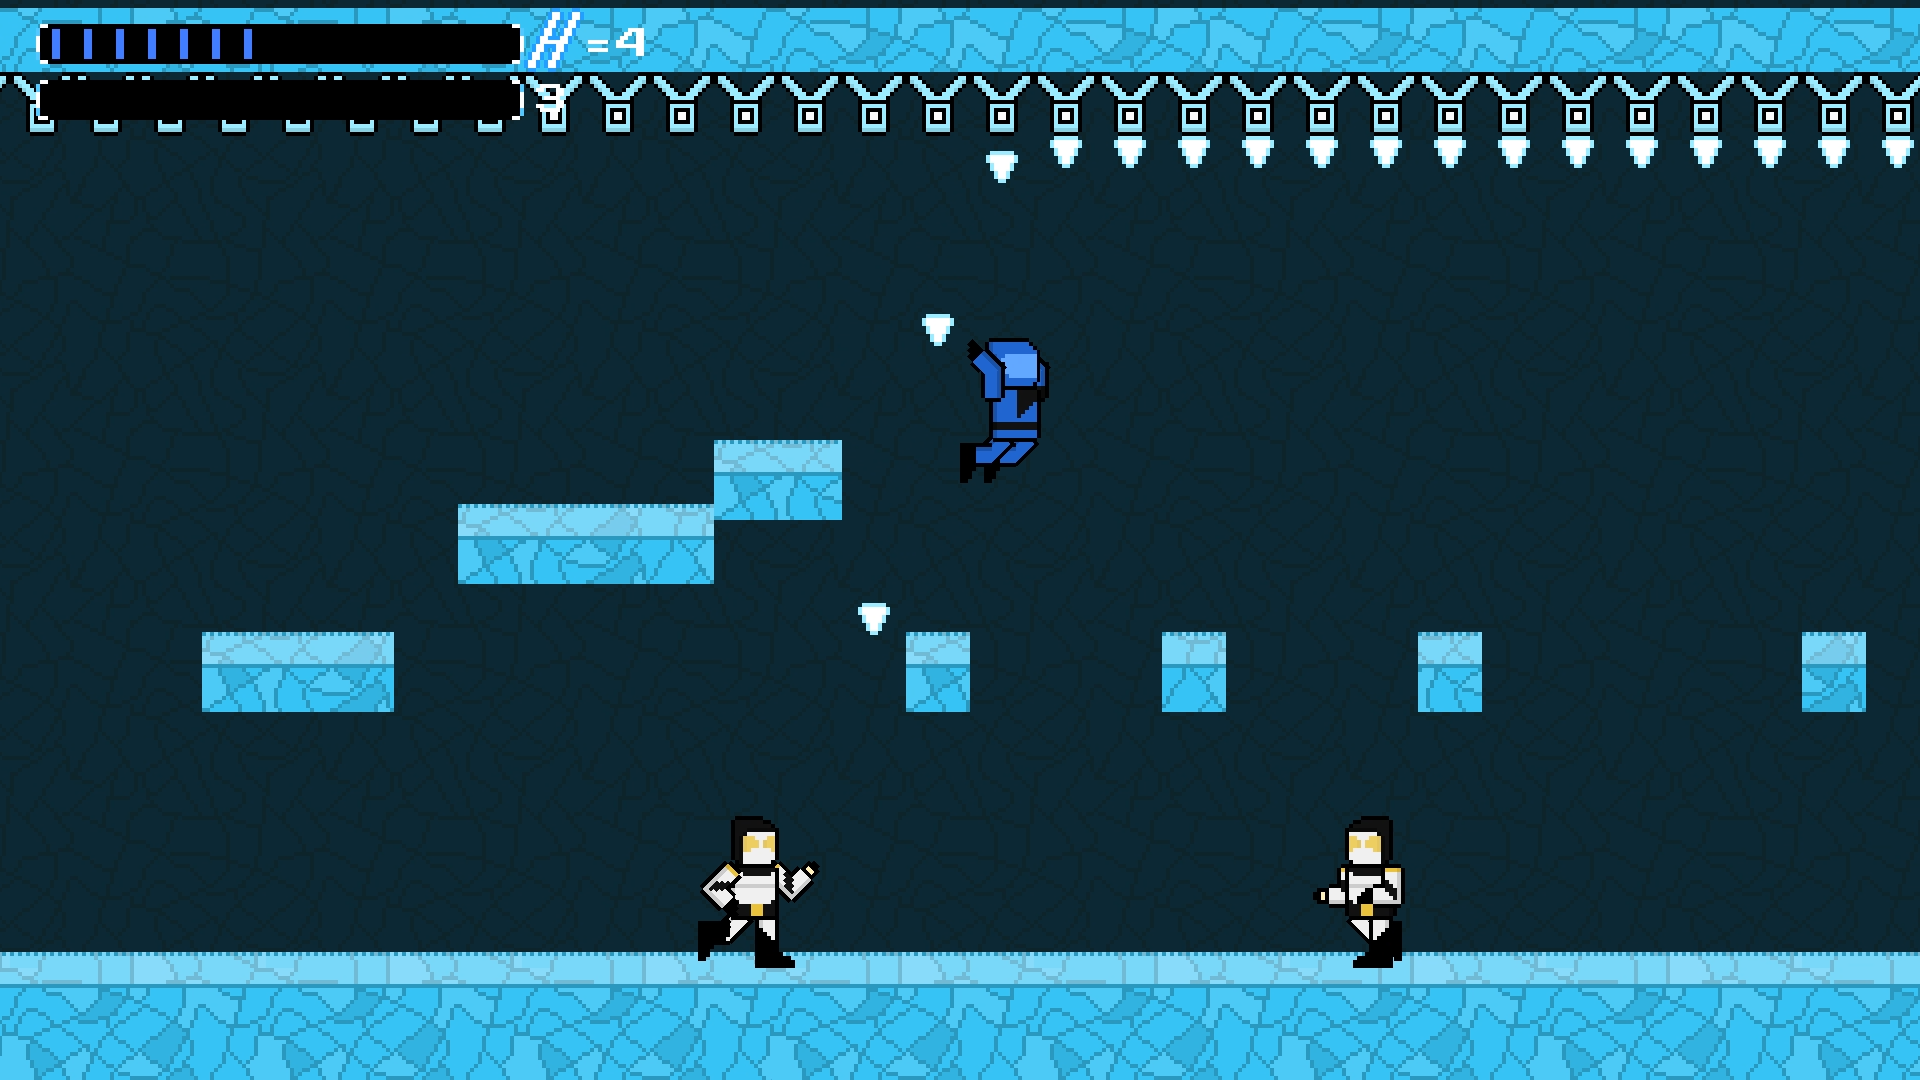
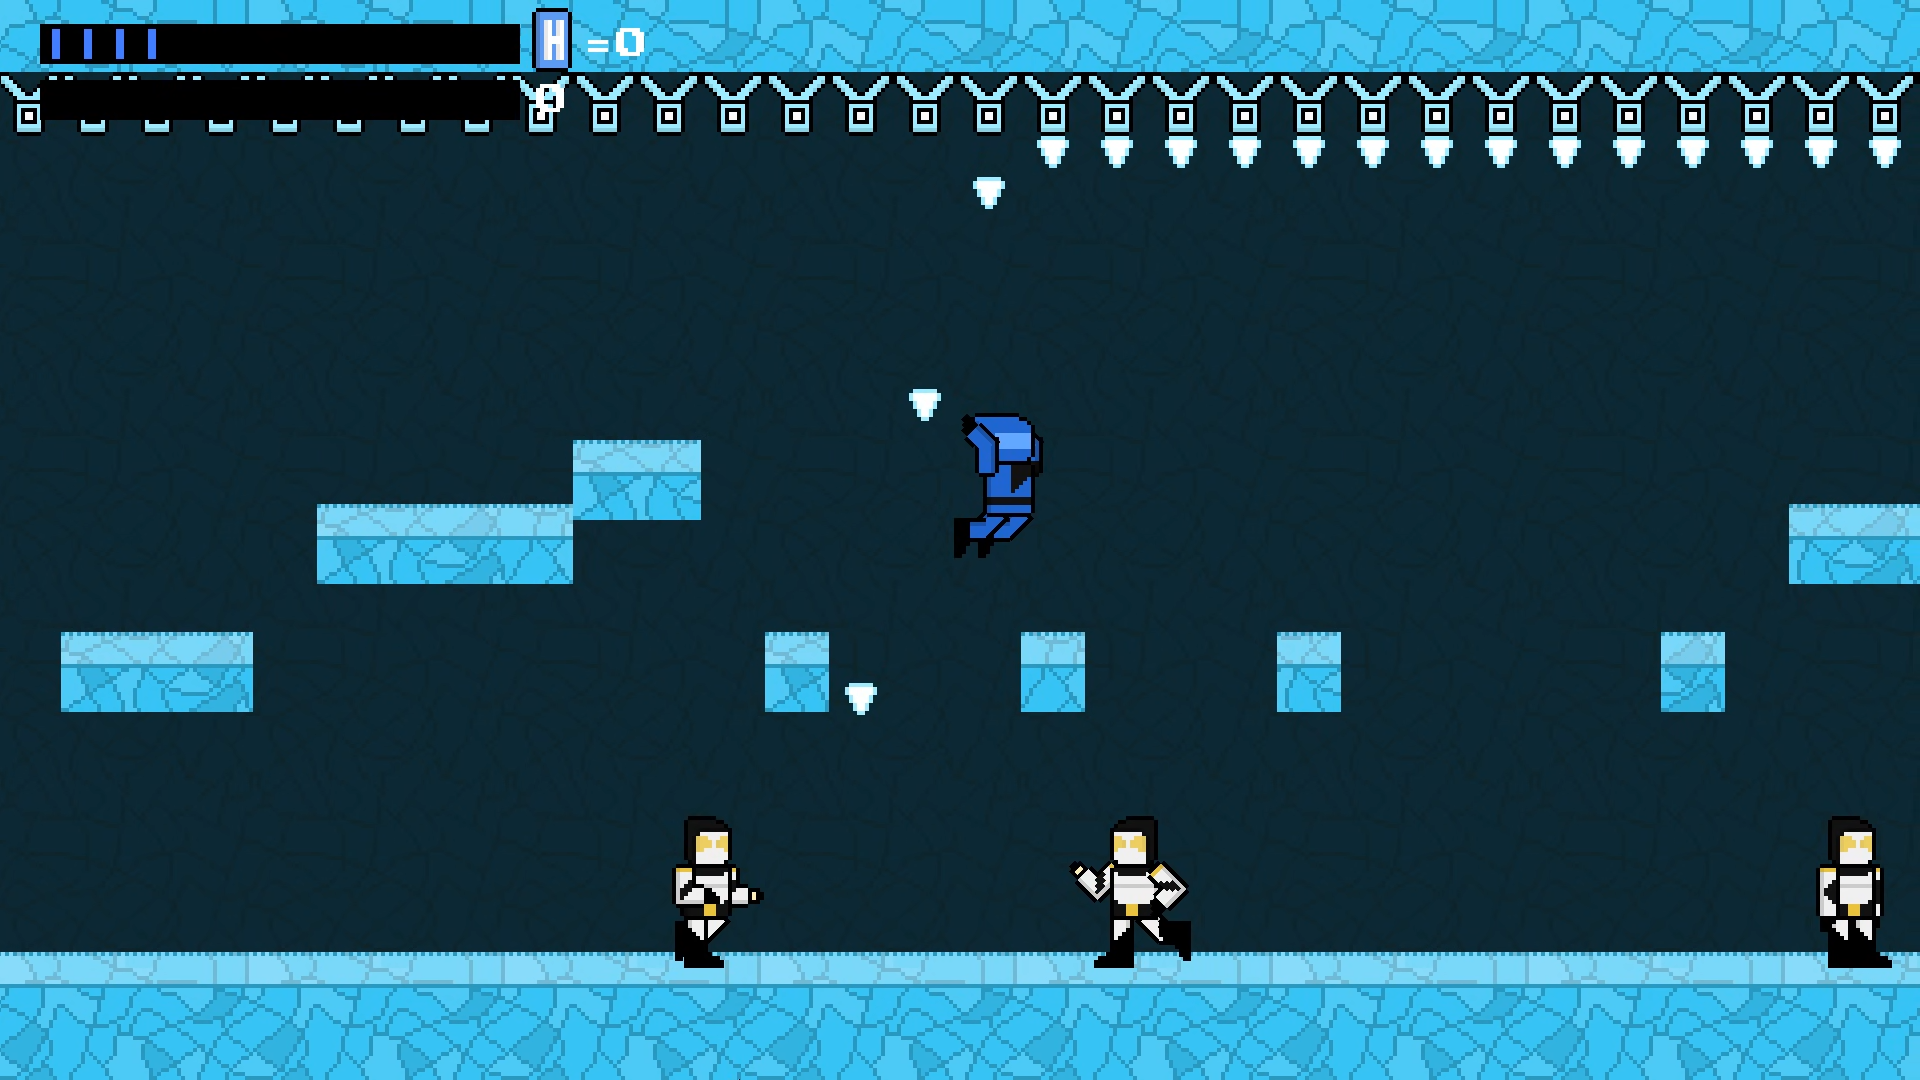
Documentation update

diff --git a/README.md b/README.md
@@ -20,6 +20,16 @@ GPL-3.0-only
 
 ## Changelog
 
+## Documentation update
+#№# EN
+	There were nothing added to the game itself, only outside of it (that's why the update isn't called 2.6).
+	Fix second screenshot to better represent the current state of the game (in the old one there was an empty space above the ceiling).
+	Small changes and improvements in Russian documentation.
+### RU
+	В игру ничего не было добавлено, только вне её (поэтому обновление не называется 2.6).
+	Исправлен второй скриншот для лучшей репрезентации текущего состояния игры (в старом было пустое пространство над потолком).
+	Добавлен список ID всех снарядов (проджектайлов) в документации.
+	Небольшие улучшения и изменения в русской документации.
 ## 2.5
 ### EN
 	Add support for M30 gamepad.
